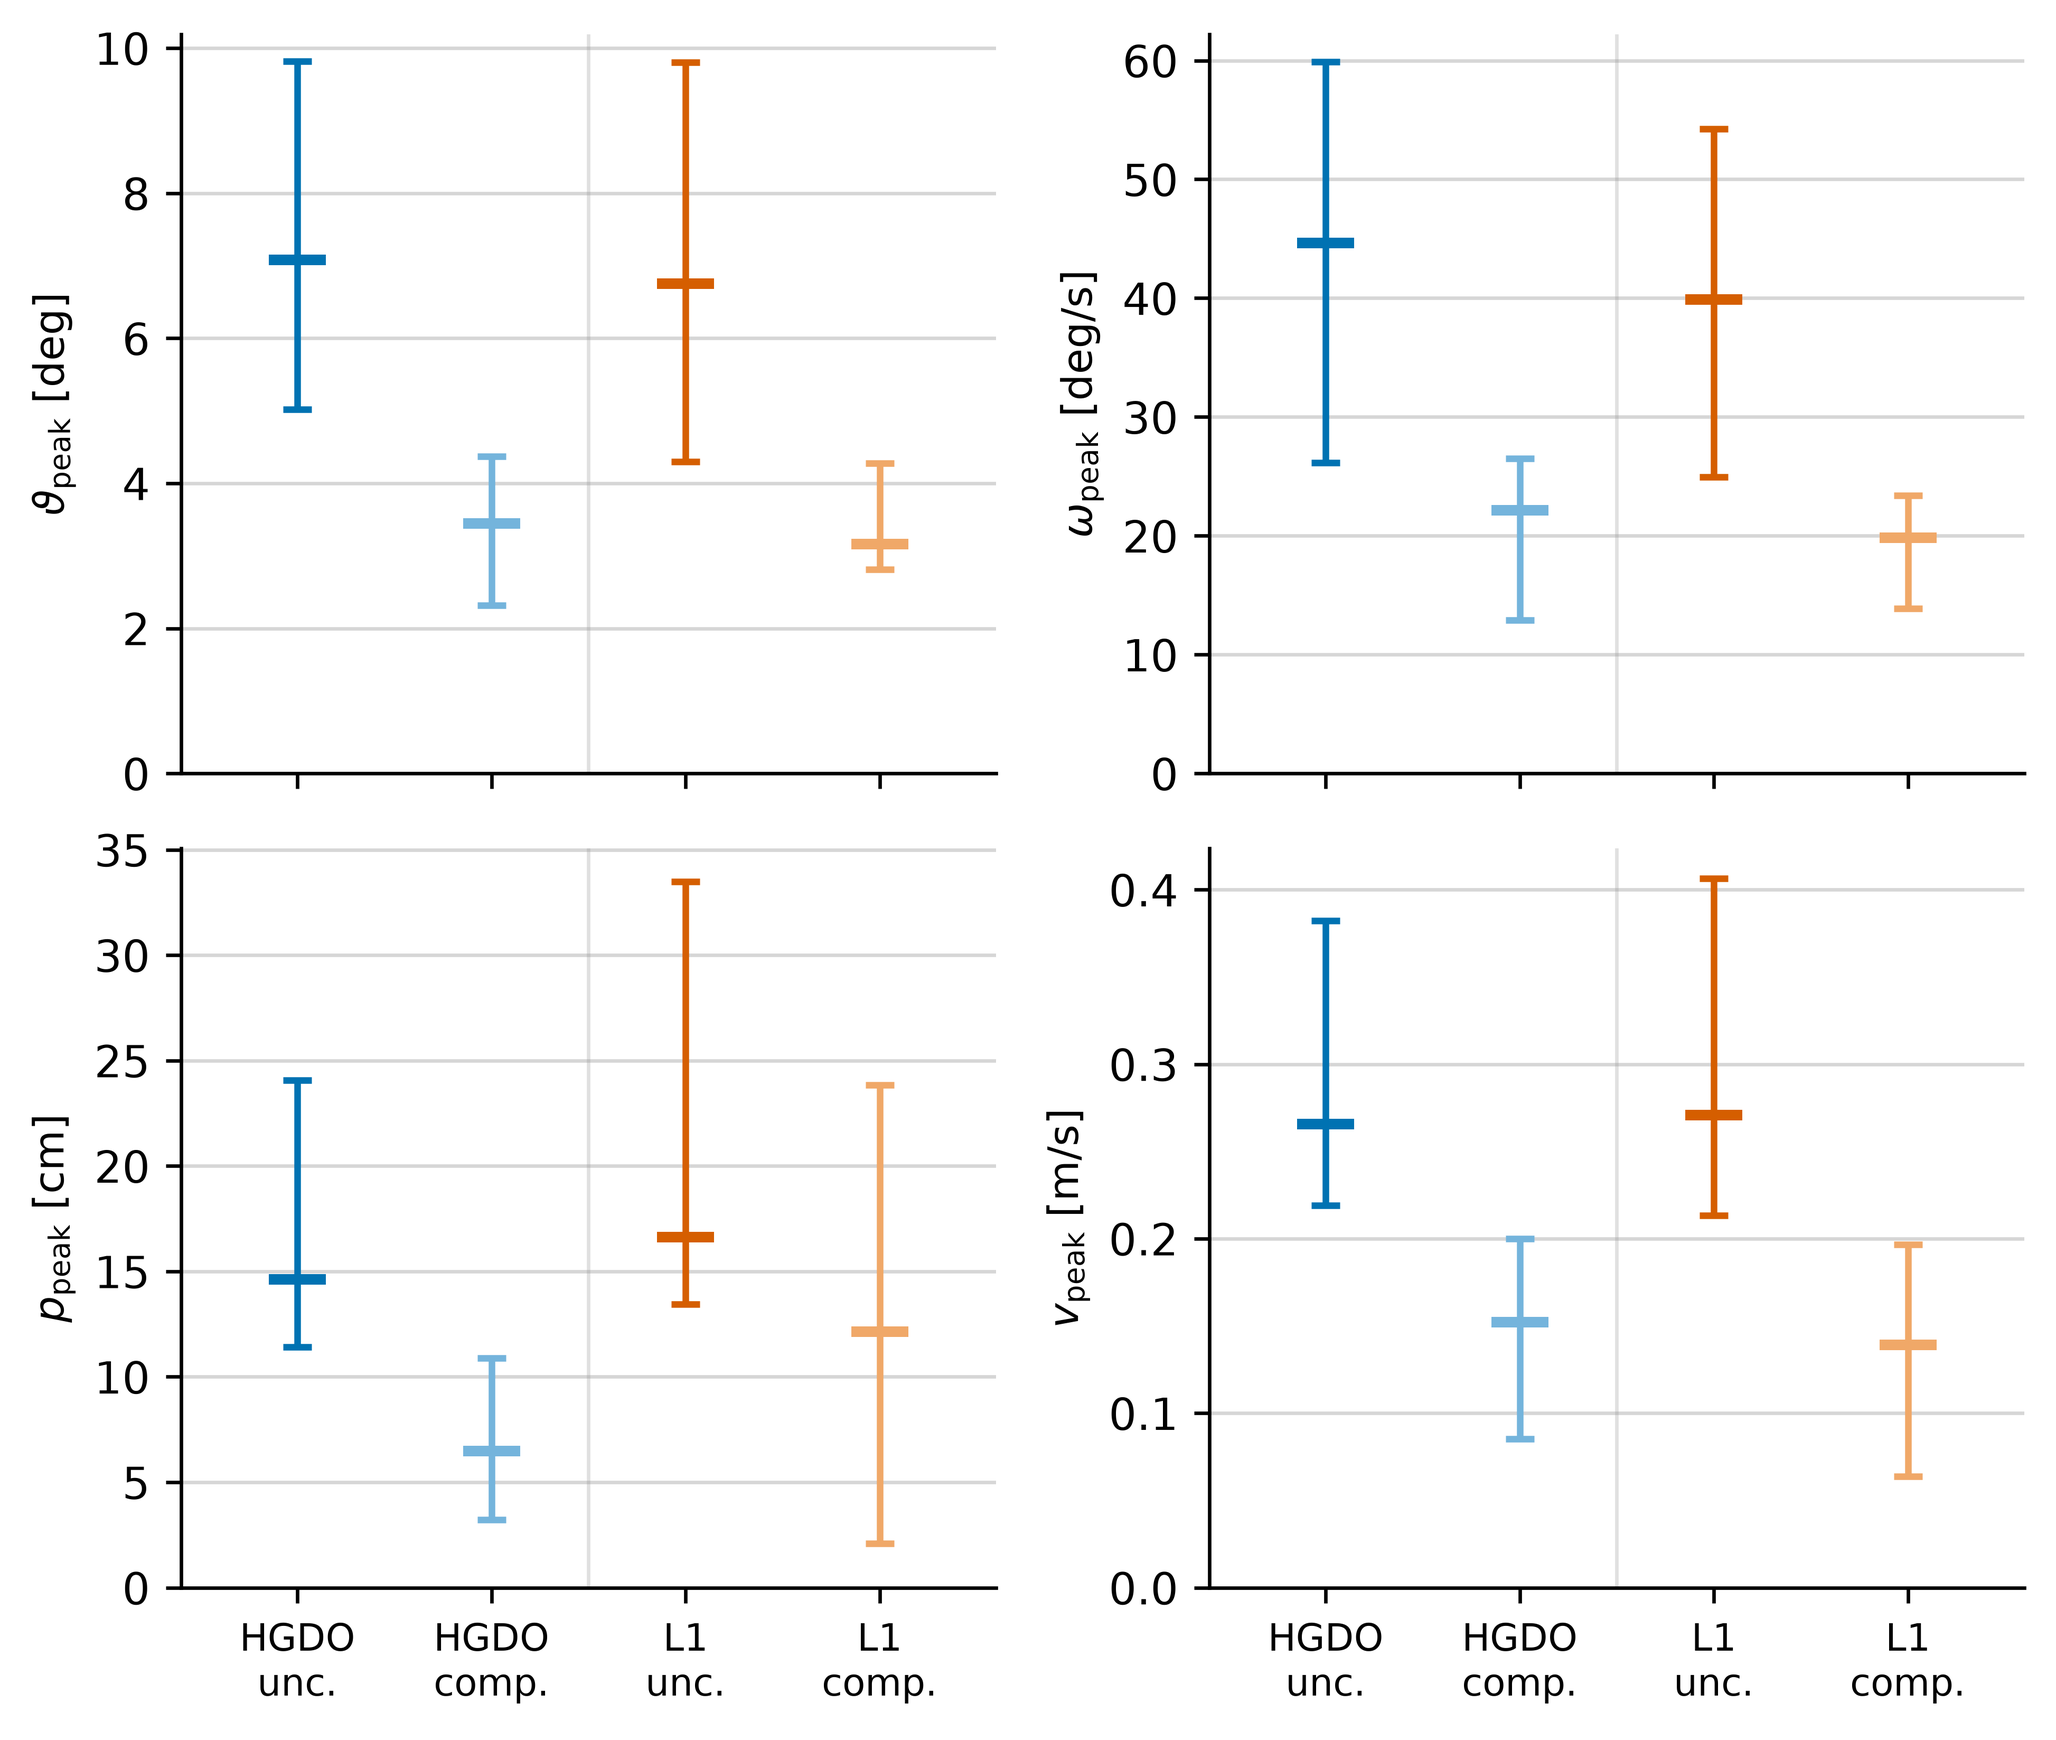
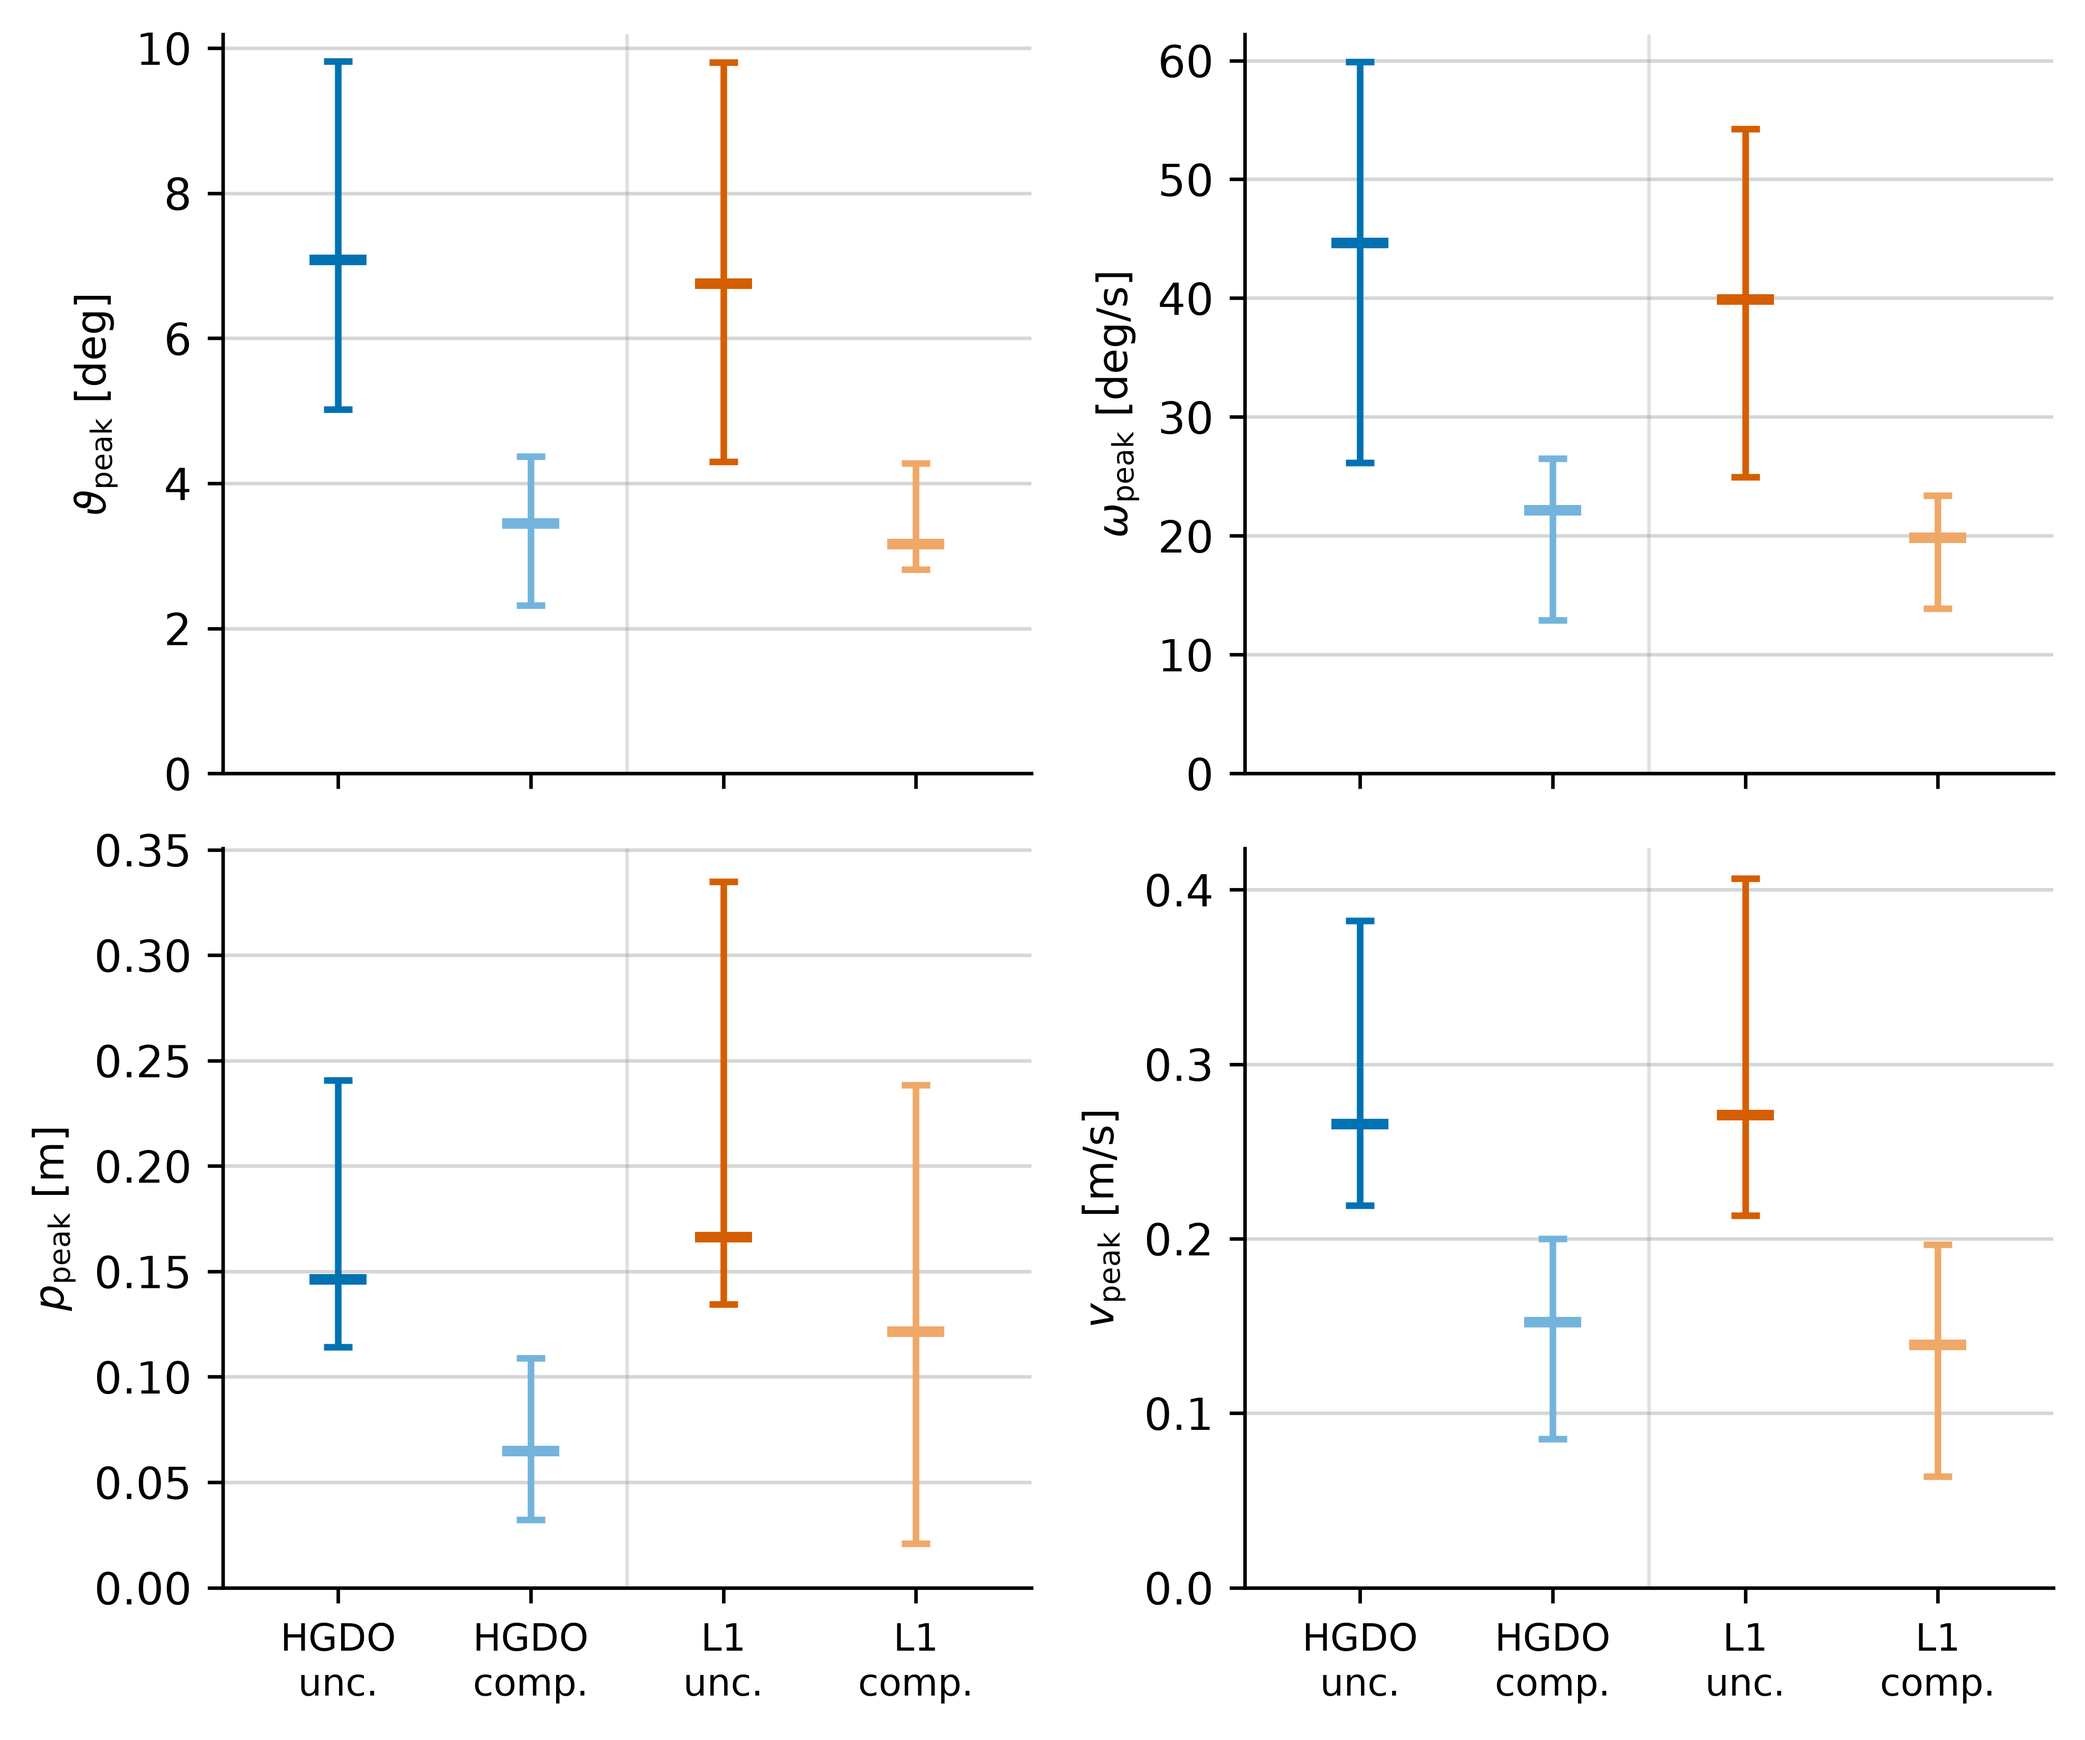
Report the peak drift in metres in the figure, matching the table
Claude-Session: https://claude.ai/code/session_01BM6bcsm1ZtLtgegEeuFDVS

diff --git a/analysis/freeflight_hw_summary.py b/analysis/freeflight_hw_summary.py
@@ -175,7 +175,7 @@ def main():
 
     UNIT = {'tilt': (1.0, r'$\vartheta_{\mathrm{peak}}$ [deg]', '{:.1f}'),
             'rate': (1.0, r'$\omega_{\mathrm{peak}}$ [deg/s]', '{:.0f}'),
-            'drift': (100.0, r'$p_{\mathrm{peak}}$ [cm]', '{:.1f}'),
+            'drift': (1.0, r'$p_{\mathrm{peak}}$ [m]', '{:.3f}'),
             'speed': (1.0, r'$v_{\mathrm{peak}}$ [m/s]', '{:.2f}')}
 
     # one slot per observer/variant, the whole campaign pooled: the
